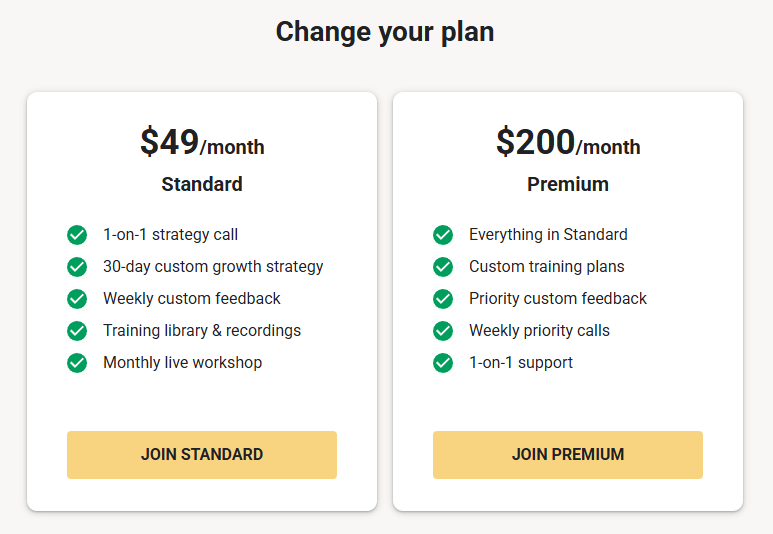
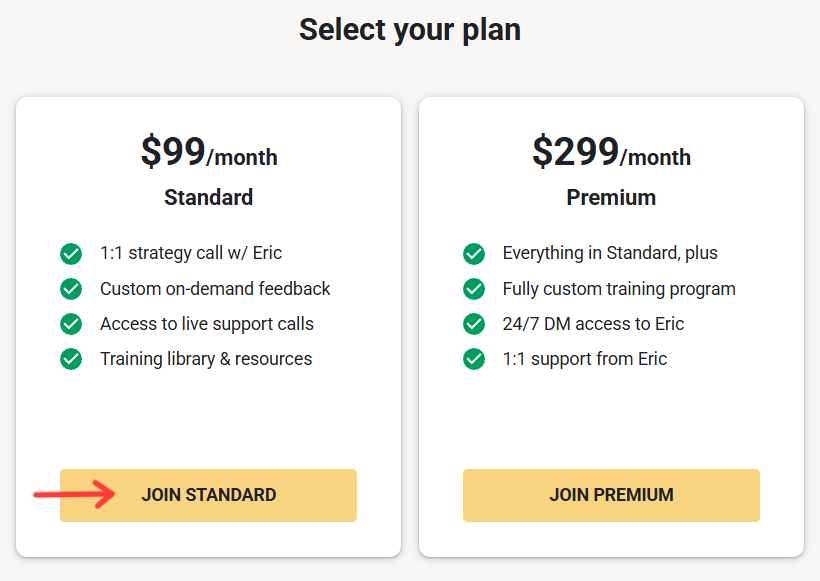
Update pricing and plan details for Standard and Premium tiers
Raise Standard to $99/mo and Premium to $299/mo, refresh feature lists for both plans, and update bonuses section wording.

diff --git a/index.html b/index.html
@@ -478,17 +478,16 @@
         <div class="bg-white rounded-2xl p-6 md:p-8 border border-gray-200 shadow-sm tile-hover">
           <p class="text-xs font-semibold text-gray-400 uppercase tracking-widest mb-2">Standard</p>
           <div class="flex items-end gap-1 mb-1">
-            <span class="text-4xl font-extrabold text-gray-900">$49</span>
+            <span class="text-4xl font-extrabold text-gray-900">$99</span>
             <span class="text-gray-400 text-sm mb-2">/month</span>
           </div>
           <p class="text-sm text-gray-400 mb-6">Everything you need to kickstart your growth.</p>
           <button onclick="openSkoolModal()" class="block w-full text-center bg-gray-900 text-white font-semibold py-3 rounded-xl hover:bg-black transition-colors mb-7 text-sm">Join Now</button>
           <ul class="space-y-3 text-sm text-gray-600">
-            <li class="flex items-start gap-2.5"><svg class="w-4 h-4 text-brand flex-shrink-0 mt-0.5" fill="none" stroke="currentColor" viewBox="0 0 24 24"><path stroke-linecap="round" stroke-linejoin="round" stroke-width="2.5" d="M5 13l4 4L19 7"/></svg>1-on-1 strategy call</li>
-            <li class="flex items-start gap-2.5"><svg class="w-4 h-4 text-brand flex-shrink-0 mt-0.5" fill="none" stroke="currentColor" viewBox="0 0 24 24"><path stroke-linecap="round" stroke-linejoin="round" stroke-width="2.5" d="M5 13l4 4L19 7"/></svg>30-day growth strategy</li>
-            <li class="flex items-start gap-2.5"><svg class="w-4 h-4 text-brand flex-shrink-0 mt-0.5" fill="none" stroke="currentColor" viewBox="0 0 24 24"><path stroke-linecap="round" stroke-linejoin="round" stroke-width="2.5" d="M5 13l4 4L19 7"/></svg>Community access for feedback</li>
-            <li class="flex items-start gap-2.5"><svg class="w-4 h-4 text-brand flex-shrink-0 mt-0.5" fill="none" stroke="currentColor" viewBox="0 0 24 24"><path stroke-linecap="round" stroke-linejoin="round" stroke-width="2.5" d="M5 13l4 4L19 7"/></svg>Training library & recordings</li>
-            <li class="flex items-start gap-2.5"><svg class="w-4 h-4 text-brand flex-shrink-0 mt-0.5" fill="none" stroke="currentColor" viewBox="0 0 24 24"><path stroke-linecap="round" stroke-linejoin="round" stroke-width="2.5" d="M5 13l4 4L19 7"/></svg>Monthly live workshop</li>
+            <li class="flex items-start gap-2.5"><svg class="w-4 h-4 text-brand flex-shrink-0 mt-0.5" fill="none" stroke="currentColor" viewBox="0 0 24 24"><path stroke-linecap="round" stroke-linejoin="round" stroke-width="2.5" d="M5 13l4 4L19 7"/></svg>1-on-1 strategy call w/ Eric</li>
+            <li class="flex items-start gap-2.5"><svg class="w-4 h-4 text-brand flex-shrink-0 mt-0.5" fill="none" stroke="currentColor" viewBox="0 0 24 24"><path stroke-linecap="round" stroke-linejoin="round" stroke-width="2.5" d="M5 13l4 4L19 7"/></svg>Custom on-demand feedback</li>
+            <li class="flex items-start gap-2.5"><svg class="w-4 h-4 text-brand flex-shrink-0 mt-0.5" fill="none" stroke="currentColor" viewBox="0 0 24 24"><path stroke-linecap="round" stroke-linejoin="round" stroke-width="2.5" d="M5 13l4 4L19 7"/></svg>Access to live support calls</li>
+            <li class="flex items-start gap-2.5"><svg class="w-4 h-4 text-brand flex-shrink-0 mt-0.5" fill="none" stroke="currentColor" viewBox="0 0 24 24"><path stroke-linecap="round" stroke-linejoin="round" stroke-width="2.5" d="M5 13l4 4L19 7"/></svg>Training library & resources</li>
           </ul>
         </div>
         <!-- Premium -->
@@ -496,17 +495,17 @@
           <div class="absolute -top-3 right-4 bg-brand text-white text-xs font-bold px-3 py-1 rounded-full">Limited Spots</div>
           <p class="text-xs font-semibold text-gray-400 uppercase tracking-widest mb-2">Premium</p>
           <div class="flex items-end gap-1 mb-1">
-            <span class="text-4xl font-extrabold text-white">$200</span>
+            <span class="text-4xl font-extrabold text-white">$299</span>
             <span class="text-gray-400 text-sm mb-2">/month</span>
           </div>
           <p class="text-sm text-gray-400 mb-6">Done-for-you plan for players ready to grow fast.</p>
           <button onclick="gtag('event', 'click_premium_apply', {event_category: 'conversion'}); openApplicationModal()" class="block w-full text-center bg-brand text-white font-semibold py-3 rounded-xl hover:bg-brand-dark transition-colors mb-7 text-sm">Apply Now</button>
           <ul class="space-y-3 text-sm text-gray-300">
-            <li class="flex items-start gap-2.5"><svg class="w-4 h-4 text-brand flex-shrink-0 mt-0.5" fill="none" stroke="currentColor" viewBox="0 0 24 24"><path stroke-linecap="round" stroke-linejoin="round" stroke-width="2.5" d="M5 13l4 4L19 7"/></svg>Everything in Standard</li>
-            <li class="flex items-start gap-2.5"><svg class="w-4 h-4 text-brand flex-shrink-0 mt-0.5" fill="none" stroke="currentColor" viewBox="0 0 24 24"><path stroke-linecap="round" stroke-linejoin="round" stroke-width="2.5" d="M5 13l4 4L19 7"/></svg>Custom training plans</li>
-            <li class="flex items-start gap-2.5"><svg class="w-4 h-4 text-brand flex-shrink-0 mt-0.5" fill="none" stroke="currentColor" viewBox="0 0 24 24"><path stroke-linecap="round" stroke-linejoin="round" stroke-width="2.5" d="M5 13l4 4L19 7"/></svg>Priority custom feedback</li>
-            <li class="flex items-start gap-2.5"><svg class="w-4 h-4 text-brand flex-shrink-0 mt-0.5" fill="none" stroke="currentColor" viewBox="0 0 24 24"><path stroke-linecap="round" stroke-linejoin="round" stroke-width="2.5" d="M5 13l4 4L19 7"/></svg>Weekly priority calls</li>
-            <li class="flex items-start gap-2.5"><svg class="w-4 h-4 text-brand flex-shrink-0 mt-0.5" fill="none" stroke="currentColor" viewBox="0 0 24 24"><path stroke-linecap="round" stroke-linejoin="round" stroke-width="2.5" d="M5 13l4 4L19 7"/></svg>1-on-1 support</li>
+            <li class="flex items-start gap-2.5"><svg class="w-4 h-4 text-brand flex-shrink-0 mt-0.5" fill="none" stroke="currentColor" viewBox="0 0 24 24"><path stroke-linecap="round" stroke-linejoin="round" stroke-width="2.5" d="M5 13l4 4L19 7"/></svg>Everything in Standard, plus</li>
+            <li class="flex items-start gap-2.5"><svg class="w-4 h-4 text-brand flex-shrink-0 mt-0.5" fill="none" stroke="currentColor" viewBox="0 0 24 24"><path stroke-linecap="round" stroke-linejoin="round" stroke-width="2.5" d="M5 13l4 4L19 7"/></svg>Fully custom training program</li>
+            <li class="flex items-start gap-2.5"><svg class="w-4 h-4 text-brand flex-shrink-0 mt-0.5" fill="none" stroke="currentColor" viewBox="0 0 24 24"><path stroke-linecap="round" stroke-linejoin="round" stroke-width="2.5" d="M5 13l4 4L19 7"/></svg>24/7 DM access to Eric</li>
+            <li class="flex items-start gap-2.5"><svg class="w-4 h-4 text-brand flex-shrink-0 mt-0.5" fill="none" stroke="currentColor" viewBox="0 0 24 24"><path stroke-linecap="round" stroke-linejoin="round" stroke-width="2.5" d="M5 13l4 4L19 7"/></svg>1:1 support from Eric</li>
+          
           </ul>
         </div>
       </div>
@@ -535,11 +534,11 @@
             </li>
             <li class="flex items-start gap-3 text-sm text-gray-700">
               <svg class="w-4 h-4 text-brand flex-shrink-0 mt-0.5" fill="none" stroke="currentColor" viewBox="0 0 24 24"><path stroke-linecap="round" stroke-linejoin="round" stroke-width="2.5" d="M5 13l4 4L19 7"/></svg>
-              2 private coaching calls to help you start winning fast
+              2 recordings from our Unmarkable&#8482; and Block-Getter&#8482; workshops
             </li>
             <li class="flex items-start gap-3 text-sm text-gray-700">
               <svg class="w-4 h-4 text-brand flex-shrink-0 mt-0.5" fill="none" stroke="currentColor" viewBox="0 0 24 24"><path stroke-linecap="round" stroke-linejoin="round" stroke-width="2.5" d="M5 13l4 4L19 7"/></svg>
-              2 recordings from our Unmarkable&#8482; and Block-Getter&#8482; workshops
+              1 private coaching call to help you start winning fast
             </li>
             <li class="flex items-start gap-3 text-sm text-gray-700">
               <svg class="w-4 h-4 text-brand flex-shrink-0 mt-0.5" fill="none" stroke="currentColor" viewBox="0 0 24 24"><path stroke-linecap="round" stroke-linejoin="round" stroke-width="2.5" d="M5 13l4 4L19 7"/></svg>
@@ -809,7 +808,7 @@
           </div>
 
           <div>
-            <label class="block text-sm font-semibold text-gray-700 mb-1.5">The investment to get started in the Premium plan is $200 USD. Does that work for you? <span class="text-brand">*</span></label>
+            <label class="block text-sm font-semibold text-gray-700 mb-1.5">The investment to get started in the Premium plan is $299 USD. Does that work for you? <span class="text-brand">*</span></label>
             <select name="investment_ok" required class="w-full border border-gray-200 rounded-xl px-4 py-3 text-sm text-gray-800 focus:outline-none focus:ring-2 focus:ring-brand/30 focus:border-brand transition appearance-none bg-white">
               <option value="" disabled selected>Select an option</option>
               <option>Yes, that works</option>